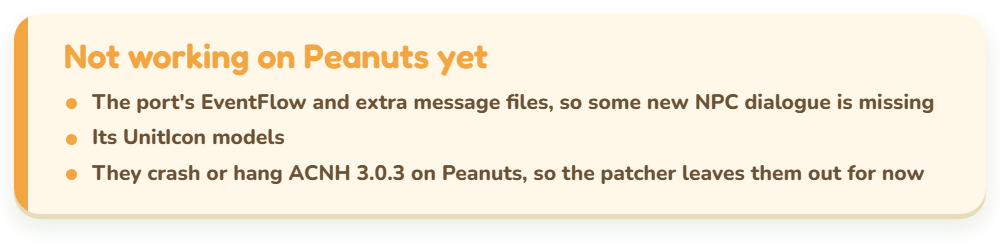
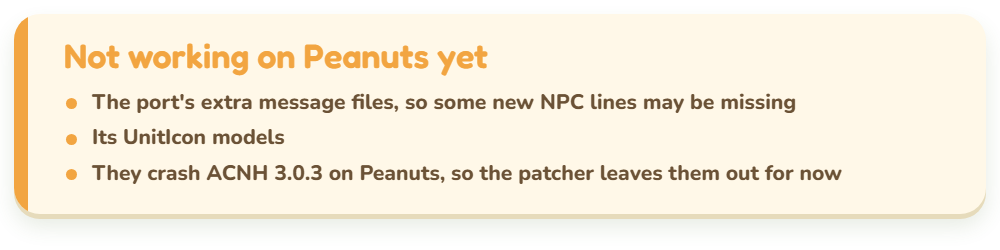
Ship EventFlow: the 40 new flows and the merged flow list are in; docs and not-yet card updated

Changed region(s): [[0.186, 0.364, 0.961, 0.448], [0.186, 0.644, 0.93, 0.728]]

diff --git a/docs/index.html b/docs/index.html
@@ -148,8 +148,9 @@
       <path d="M18 55C24 40 31 28 44 16" fill="none" stroke="#4b9435" stroke-width="4" stroke-linecap="round"/></svg>Then, in Peanuts</h2>
     <p>Back up your save first: this mod adds items. Open ACNH's settings, then <b>Install mod&hellip; &gt; Zip file</b>, and pick
       <code>jubbsticks-additions-peanuts.zip</code>. Peanuts rebuilds the game with the mod, which takes about 5 minutes. Then start a new game.</p>
-    <p>It's the port as is, minus what Peanuts can't load yet: the port's EventFlow files, UnitIcon models and extra message files
-      hang or crash ACNH 3.0.3 on Peanuts (tested on an AYN Thor), so some new NPC dialogue is missing. The page also puts back 79 vanilla item names
+    <p>It's the port as is, minus what Peanuts can't load yet: the port's UnitIcon models and extra message files
+      crash ACNH 3.0.3 on Peanuts (tested on an AYN Thor), so some new NPC lines may be missing. Its 40 new EventFlow
+      dialogue flows are in, with its flow list merged into the 3.0.3 one. The page also puts back 79 vanilla item names
       the port's text file lacks, and gives it a size table made for 3.0.3.</p>
     <p>Other mods that replace the same files (item tables, item names, the size table) will clash with it.</p>
   </section>

diff --git a/docs/body.html b/docs/body.html
@@ -49,8 +49,9 @@
       <path d="M18 55C24 40 31 28 44 16" fill="none" stroke="#4b9435" stroke-width="4" stroke-linecap="round"/></svg>Then, in Peanuts</h2>
     <p>Back up your save first: this mod adds items. Open ACNH's settings, then <b>Install mod&hellip; &gt; Zip file</b>, and pick
       <code>jubbsticks-additions-peanuts.zip</code>. Peanuts rebuilds the game with the mod, which takes about 5 minutes. Then start a new game.</p>
-    <p>It's the port as is, minus what Peanuts can't load yet: the port's EventFlow files, UnitIcon models and extra message files
-      hang or crash ACNH 3.0.3 on Peanuts (tested on an AYN Thor), so some new NPC dialogue is missing. The page also puts back 79 vanilla item names
+    <p>It's the port as is, minus what Peanuts can't load yet: the port's UnitIcon models and extra message files
+      crash ACNH 3.0.3 on Peanuts (tested on an AYN Thor), so some new NPC lines may be missing. Its 40 new EventFlow
+      dialogue flows are in, with its flow list merged into the 3.0.3 one. The page also puts back 79 vanilla item names
       the port's text file lacks, and gives it a size table made for 3.0.3.</p>
     <p>Other mods that replace the same files (item tables, item names, the size table) will clash with it.</p>
   </section>

diff --git a/tools/make_art.py b/tools/make_art.py
@@ -24,9 +24,9 @@ CARDS = [
                                  'Done with romfs edits only (dragonloverlord\'s addition)'], '#6dbb4f'),
     ('port', 'From the port', ['All tools are unbreakable',
                                'The new tool and balloon DIYs stay out of hotel delivery requests'], '#6dbb4f'),
-    ('not-yet', 'Not working on Peanuts yet', ['The port\'s EventFlow and extra message files, so some new NPC dialogue is missing',
+    ('not-yet', 'Not working on Peanuts yet', ['The port\'s extra message files, so some new NPC lines may be missing',
                                                 'Its UnitIcon models',
-                                                'They crash or hang ACNH 3.0.3 on Peanuts, so the patcher leaves them out for now'], '#f2a541'),
+                                                'They crash ACNH 3.0.3 on Peanuts, so the patcher leaves them out for now'], '#f2a541'),
 ]
 
 CARD_CSS = """

diff --git a/docs/PORT.md b/docs/PORT.md
@@ -8,7 +8,8 @@ The output is the port's own romfs with three changes:
 
 | What | Why |
 | --- | --- |
-| `EventFlow/*`, `Model/UnitIcon*` and every `Message/` file except `String_USen` are left out | they hang or crash 3.0.3 on Peanuts (table below) |
+| `Model/UnitIcon*` and every `Message/` file except `String_USen` are left out | they crash 3.0.3 on Peanuts (table below) |
+| `EventFlow/`: the 40 new flows go in, and `EventFlowInfoProduct.byml` is the 3.0.3 file plus the port's new entries | the port's own byml is 2.x-era (see EventFlow below) |
 | `Message/String_USen.sarc.zs` gets back 79 vanilla 3.0.3 item names | the port's copy lacks their labels (9 tools, 70 other items) |
 | `System/Resource/ResourceSizeTable.srsizetable` is rebuilt | vanilla 3.0.3's table, plus the port's entries for its new files, with sizes raised where a port file is bigger |
 
@@ -26,9 +27,9 @@ Bisecting on an AYN Thor (each build listed in the launch log's `DM_ROMFS_OVERLA
 | ... plus the 20 `UnitIcon*` models | crashes (SIGSEGV) |
 | ... plus the port's other `Message/` sarcs | crashes while loading `Message/System_*` (they are 2.x-era; all 9 USen sarcs differ from 3.0.3) |
 
-### EventFlow (boots, not in the release yet)
+### EventFlow
 
-The port's `EventFlow/Info/EventFlowInfoProduct.byml` is a 2.x-era file that also changes existing 3.0.3 entries, so the build uses a merged one: vanilla 3.0.3 plus only the port's new entries (`tools/add_eventflow.py`). The earlier boot crash at `main+0x1ae078c` was the size table, not the byml. Combined was first in the mod list then, and its table capped `EventFlowInfoProduct.byml` at 274,944 bytes, below the merged file's 277,392. With Jubbsticks first and the size tables max-merged, the EventFlow build boots and loads the island on Peanuts 0.1.8. Nobody has checked yet that a new NPC flow plays.
+The port's `EventFlow/Info/EventFlowInfoProduct.byml` is a 2.x-era file that also changes existing 3.0.3 entries, so the build uses a merged one: vanilla 3.0.3 plus only the port's new entries (`tools/add_eventflow.py`). The earlier boot crash at `main+0x1ae078c` was the size table, not the byml. Combined was first in the mod list then, and its table capped `EventFlowInfoProduct.byml` at 274,944 bytes, below the merged file's 277,392. With Jubbsticks first and the size tables max-merged, the EventFlow build boots and loads the island on Peanuts 0.1.8. It is in the release: the page's build is byte for byte the zip that loaded the island on the Thor. Nobody has checked yet that a new NPC flow plays.
 
 ### Peanuts mod order and size tables
 
@@ -42,10 +43,11 @@ With QoL, Jubbsticks and full Combined, the title loads but the island load cras
 
 ## The patch file
 
-`jub-port-patch.json` (about 465 KB) holds no files from the port or the original mod:
+`jub-port-patch.json` (about 479 KB) holds no files from the port or the original mod:
 
 - `strings`: the 79 label texts to add per MSBT inside `String_USen`, with content hashes before and after
 - `rstb`: the size table, deflated, with its hash
+- `eventflow`: the 40 new flow names, and the 3.0.3 values of the 7 flow-list entries the port's 2.x-era byml changed, which the page puts back (hashes before and after)
 - `bcsv` and `drop`: empty in this release (kept in the format for later fixes)
 
 The page reads the port's `.7z` itself (a small LZMA/LZMA2 reader in `docs/app.js`) or a zip of the same files, applies the patch, checks every hash and writes a stored (uncompressed) zip. In Node the whole build takes about 1.4 s from the 33 MB `.7z` and 0.3 s from a zip. Recompression is skipped: `String_USen` goes out as a raw-block zstd frame and the size table as store-only Yaz0, which the game reads fine.

diff --git a/README.md b/README.md
@@ -16,7 +16,7 @@ The mod is Jubbsticks' work, and the port to 3.0.x is dragonloverlord's. I only 
 <img src="docs/img/features/new-stuff.png" alt="Jubbsticks' Additions: new items, new NPCs and new interactions, lots to discover and unlock, English only for now" width="100%">
 <img src="docs/img/features/stacks.png" alt="Stacks to 254: fish, bugs, dive fish, clams and trash all stack, every stack limit goes up to 254, done with romfs edits only (dragonloverlord's addition)" width="100%">
 <img src="docs/img/features/port.png" alt="From the port: all tools are unbreakable, the new tool and balloon DIYs stay out of hotel delivery requests" width="100%">
-<img src="docs/img/features/not-yet.png" alt="Not working on Peanuts yet: the port's EventFlow and extra message files, so some new NPC dialogue is missing; its UnitIcon models; they crash or hang ACNH 3.0.3 on Peanuts, so the patcher leaves them out for now" width="100%">
+<img src="docs/img/features/not-yet.png" alt="Not working on Peanuts yet: the port's extra message files, so some new NPC lines may be missing; its UnitIcon models; they crash ACNH 3.0.3 on Peanuts, so the patcher leaves them out for now" width="100%">
 
 ## Install
 
@@ -39,7 +39,7 @@ This is early. Here's where it stands:
 - The patch only fits port version `UJAP-V0.0.2`. dragonloverlord is still fixing item IDs in the port, so new versions will keep coming. The page refuses a newer download until I make a patch for it.
 - An earlier build for V0.0.1 boots on my AYN Thor (Peanuts Native 0.1.7). I haven't played far enough yet to check the new items in game.
 - This V0.0.2 build hasn't been on the Thor yet. It comes out byte for byte the same from the page as from my PC build.
-- The EventFlow files (NPC dialogue flows) aren't in the release yet. A test build with them boots on Peanuts 0.1.8 and loads my island, but I haven't checked that a new NPC flow plays. Notes are in [PORT.md](docs/PORT.md).
+- The EventFlow files (NPC dialogue flows) are in now: the patch adds the port's 40 new flows and merges its flow list into the 3.0.3 one. It boots on Peanuts 0.1.8 and loads my island, but I haven't checked that a new NPC flow plays. Notes are in [PORT.md](docs/PORT.md).
 - With ACNH Combined 3.0.3 also installed, the island load crashes because of Combined's oak tree model (`PltTreeOak`). Without that one model, QoL, this mod and Combined all load together on my Thor. That's a fix for Combined, not this mod.
 
 ## About the AI part
